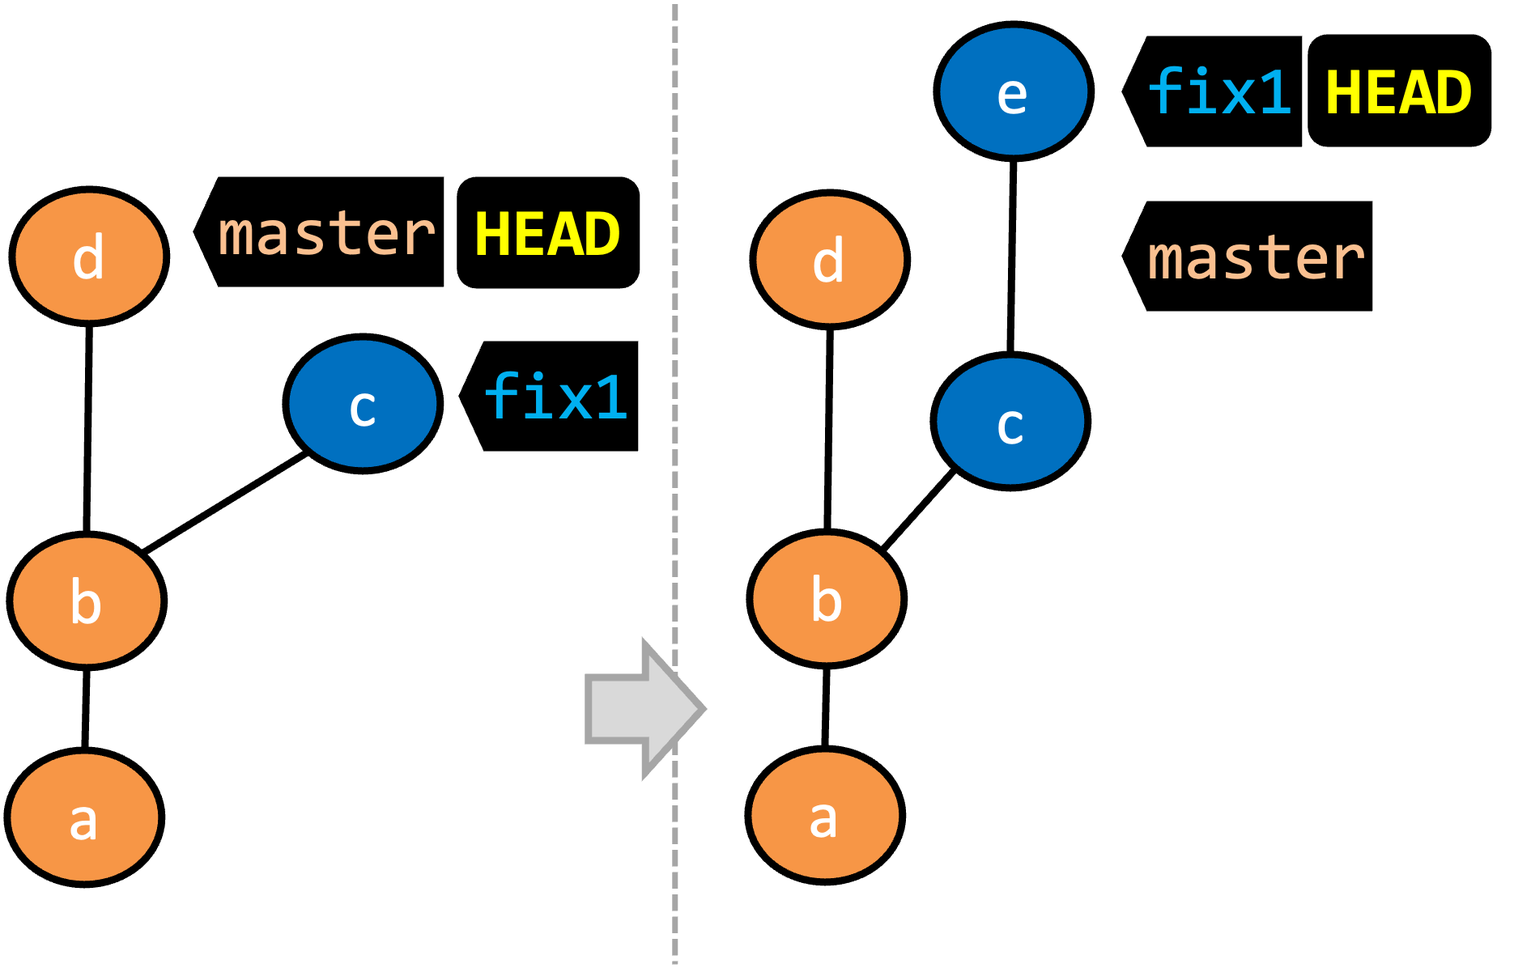
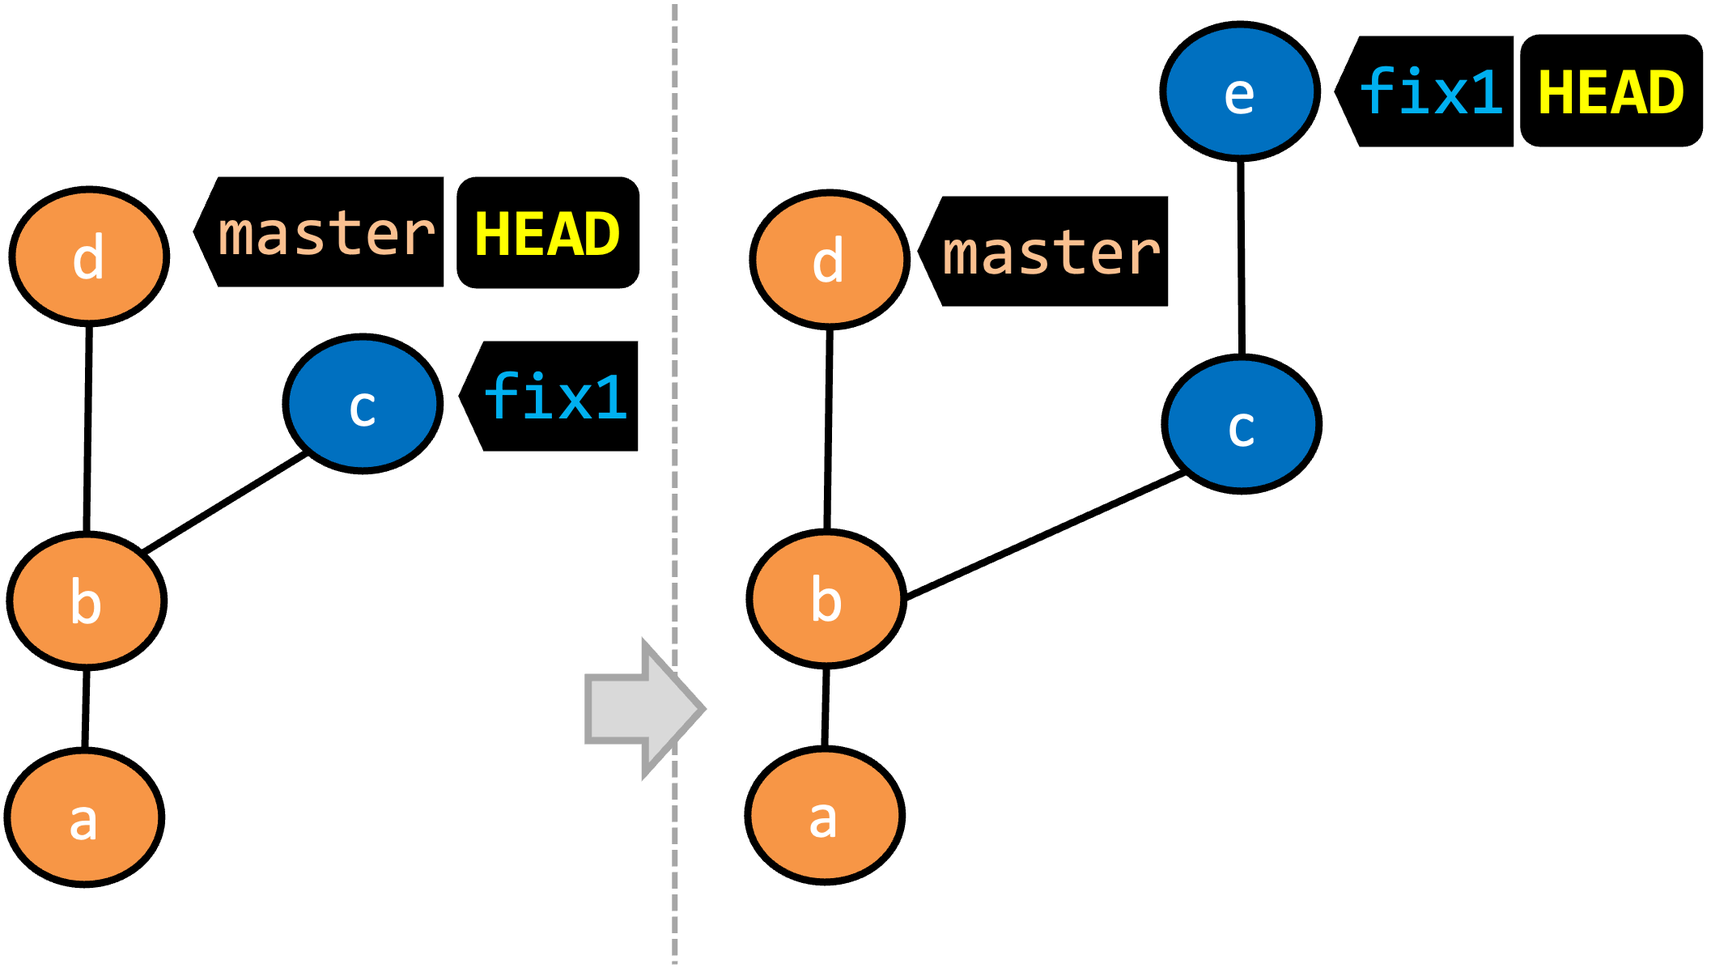
git: Tweak tours 7, 8

diff --git a/gitAndGithub/stage/text.md b/gitAndGithub/stage/text.md
@@ -1,4 +1,4 @@
-{% from "common/macros.njk" import trail, bold_number, callout, hp_number, label, show_git_term, show_git_term_tip, show_detour, show_exercise,show_folder_columns, show_folder_contents, show_git_tabs, show_hands_on_practical, show_lesson_intro, show_output, show_under_the_hood with context %}
+{% from "common/macros.njk" import trail, bold_number, callout, hp_number, label, show_commit, show_folder_columns, show_git_term, show_git_term_tip, show_detour, show_exercise, show_git_tabs, show_git_tabs_from_text, show_hands_on_practical, show_head, show_lesson_intro, show_lesson_link, show_output, show_protip, show_ref, show_resources, show_sidebar, show_tag, show_transformation_columns, show_under_the_hood with context %}
 
 <span id="outcomes">{{ icon_outcome }} Can stage files</span>
 <span id="title">{{ trail.recordingFolderHistory.lessons.stage.title }}</span>
@@ -90,10 +90,48 @@ dragon fruits
 
 {% endcall %} <!-- end: HOP -->
 
-**Staging (and unstaging) is how you tell Git which changes you want to include in the next snapshot, regardless of whether a file is currently tracked.** If a file is untracked, staging it will both begin tracking the file and include it in the next snapshot. If the file is already tracked, staging will simply mark its current changes for inclusion in the next commit. <span class="non-printable">In fact, Git supports fine-grained selective staging i.e., staging only specific changes within a file while leaving other changes to the same file unstaged. This will be covered in a later lesson.</span>
+**Staging applies regardless of whether a file is currently tracked.**
+ * Staging a tracked file will both begin tracking the file and include it in the next snapshot.
+ * **Staging an already tracked file will simply mark its current changes for inclusion in the next commit.**
+
+<div class="non-printable">
+
+**Git also supports fine-grained selective staging** i.e., staging only specific changes within a file while leaving other changes to the same file unstaged. This will be covered in a later lesson.
+</div>
 
 **Git does not track empty folders**. It tracks only folders that contain tracked files.<br>
 <span class="non-printable">You can test this by adding an empty subfolder inside the `things` folder (e.g., `things/more-things`) and checking if it shows up as 'untracked' (it will not). If you add a file to that folder (e.g., `things/more-things/food.txt`) and then staged that file (e.g., `git add more-things/food.txt`), the folder will now be included in the next snapshot.</span>
+
+
+{% call show_protip("Staging multiple files in one go") %}
+Here are several ways of staging multiple files simultaneously.
+
+**Specify multiple files:**
+```bash
+git add f1.txt f2.txt data/lists/f3.txt
+```
+
+**Add using a [glob pattern](https://en.wikipedia.org/wiki/Glob_(programming)):**
+```bash
+git add *.txt  # adds all .txt files in the current directory
+```
+
+**Add all files in the current directory and subdirectories:**
+```bash
+git add .
+```
+
+**Add all changes in a specific directory and subdirectories:**
+```bash
+git add path/to/directory
+```
+
+**Add all changes in the entire repository:**
+```bash
+git add -A
+```
+{% endcall %} <!-- end: show_protip -->
+
 
 </div>
 

diff --git a/gitAndGithub/log/text.md b/gitAndGithub/log/text.md
@@ -22,9 +22,12 @@ It is useful to be able to **visualise the commits timeline, aka the _revision g
 
 **Nodes in the revision graph represent commits.**
 
-* **A commit is one of four main types of Git {{ show_git_term("objects") }}** (_blobs_, _trees_, and _annotated tags_ are the other three, to be covered later).
+* **A commit is one of four main types of Git {{ show_git_term("objects") }}**. For completeness, the other three are:
+  * **blob** (short for **binary large object**): stores the contents of a file
+  * **tree**: represents a directory and records the hierarchy of its contents by referencing blobs and other trees
+  * **tag** (specifically, _annotated_ tag): a label-like object that can store additional metadata and point to a specific commit
 * **A commit is identified by its {{ show_git_term("SHA") }} value**. A SHA (Secure Hash Algorithm) value is a unique identifier generated by Git to represent each commit. It is produced by using SHA-1 (i.e., one of the algorithms in the SHA family of cryptographic hash functions) on the entire content of the commit. It's a 40-character hexadecimal string (e.g., `f761ea63738a67258628e9e54095b88ea67d95e2`) that acts like a fingerprint, ensuring that every commit can be referenced unambiguously.
-* A commit is a full snapshot of the working directory, constructed based on the previous commit, and the  changes staged. **The previous commit a commit is based on is called the {{ show_git_term("parent commit") }}** %%(some commits can have multiple parent commits -- we’ll cover that later)%%.
+* A commit is a full snapshot of the working directory, constructed based on the previous commit, and the  changes staged. That means **each commit (except the initial commit) is based on a another {{ show_git_term("'parent' commit") }}**. Some commits can have multiple parent commits -- we’ll cover that later.
 
 **Edges in the revision graph represent links between a commit and its parent commit(s).** In some revision graph visualisations, you might see arrows (instead of lines) showing how each commit points to its parent commit.
 
@@ -50,7 +53,7 @@ In the revision graph above, there are two refs {{ show_ref('master') }} and &nb
 {{ show_commit('C1', edge='') }}
 <p/>
 
-In the revision graph above you see a third type of ref ({{ show_ref('origin/master') }}). This is a {{ show_git_term("remote-tracking branch") }} ref that represents the state of a corresponding branch in a remote repository (if you previously set up the branch to 'track' a remote branch). In this example, the `master` branch in the remote `origin` is also at the commit `C3` (which means you have not created new commits after you pushed to the remote).
+In the revision graph above, you see a third type of ref ({{ show_ref('origin/master') }}). This is a {{ show_git_term("remote-tracking branch") }} ref that represents the state of a corresponding branch in a remote repository (if you previously set up the branch to 'track' a remote branch). In this example, the `master` branch in the remote `origin` is also at the commit `C3` (which means you have not created new commits after you pushed to the remote).
 
 If you now create a new commit `C4`, the state of the revision graph will be as follows:
 

diff --git a/gitAndGithub/remoteBranchPush/text.md b/gitAndGithub/remoteBranchPush/text.md
@@ -9,7 +9,7 @@
 **Local branches can be replicated in a remote**.
 {% endcall %}
 
-**Pushing a copy of a local branches to the corresponding remote repo makes those branches available remotely.**
+**Pushing a copy of local branches to the corresponding remote repo makes those branches available remotely.**
 
 In a previous lesson, we saw how to push the default branch to a remote repository and have Git set up tracking between the local and remote branches using a remote-tracking reference. **Pushing any other local branch to a remote works the same way as pushing the default branch — you simply specify the target branch instead of the default branch.** Pushing any new commits in any local branch to a corresponding remote branch is done similarly as well.
 
@@ -50,7 +50,7 @@ gitGraph BT:
 
 
 <!-- ================== start: HANDS-ON =========================== -->
-{% call show_hands_on_practical("Push locla branches to remote")  %}
+{% call show_hands_on_practical("Push local branches to remote")  %}
 
 <!-- commands to create samplerepo-company
 
@@ -73,10 +73,10 @@ git commit -am "Add Michael to employees.txt"
 -->
 
 
-{{ hp_number("1") }} **Fork the [samplerepo-company](https://github.com/se-edu/samplerepo-company)** to your GitHub account. When doing so, ==un-tick the `Copy the master branch only` option==.<br>
+{{ hp_number(hop_preparation) }} **Fork the [samplerepo-company](https://github.com/se-edu/samplerepo-company)** to your GitHub account. When doing so, ==un-tick the `Copy the master branch only` option==.<br>
 After forking, go to the fork and ensure both branches (`master`, and `track-sales`) are in there.
 
-{{ hp_number("2") }} **Clone the fork** to your computer. It should look something like this:
+**Clone the fork** to your computer. It should look something like this:
 
 <mermaid>
 gitGraph BT:
@@ -95,7 +95,7 @@ gitGraph BT:
 The `origin/HEAD` remote-tracking ref indicates where the `HEAD` ref is in the remote `origin`.
 </box>
 
-{{ hp_number("3") }} **Create a new branch `hiring`, and add a commit to that branch.** The commit can contain any changes you want.
+{{ hp_number("1") }} **Create a new branch `hiring`, and add a commit to that branch.** The commit can contain any changes you want.
 
 <box type="tip" seamless>
 
@@ -124,7 +124,7 @@ gitGraph BT:
 </mermaid>
  The resulting revision graph should look like the one above.
 
-{{ hp_number("4") }} **Push the `hiring` branch to the remote.**
+{{ hp_number("2") }} **Push the `hiring` branch to the remote.**
 
 {% set cli %} <!-- ------ start: Git Tabs --------------->
 
@@ -141,7 +141,7 @@ git push origin -u hiring
 {{ show_git_tabs_from_text(cli, sourcetree) }}
 <!-- ------ end: Git Tabs -------------------------------->
 
-{{ hp_number("5") }} **Verify the branch has been pushed to the remote** by visiting the fork on GitHub, and looking for the `origin/hiring` remote-tracking ref in the local repo.
+{{ hp_number("3") }} **Verify the branch has been pushed to the remote** by visiting the fork on GitHub, and looking for the `origin/hiring` remote-tracking ref in the local repo.
 {% endcall %}<!-- ===== end: HANDS-ON ============================ -->
 
 </div>

diff --git a/gitAndGithub/remoteBranchDelete/text.md b/gitAndGithub/remoteBranchDelete/text.md
@@ -14,20 +14,20 @@ Often, you'll need to **delete a branch in a remote repo** after it has served i
 <!-- ================== start: HANDS-ON =========================== -->
 {% call show_hands_on_practical("Delete (and restore) branches in a remote")  %}
 
-{{ hp_number("1") }} **Fork the [samplerepo-books](https://github.com/se-edu/samplerepo-books)** to your GitHub account. When doing so, ==un-tick the `Copy the master branch only` option==.<br>
+{{ hp_number(hop_preparation) }} **Fork the [samplerepo-books](https://github.com/se-edu/samplerepo-books)** to your GitHub account. When doing so, ==un-tick the `Copy the master branch only` option==.<br>
 After forking, go to the fork and ensure all three branches are in there.
 
-{{ hp_number("2") }} **Clone the fork** to your computer.
+**Clone the fork** to your computer.
 
-{{ hp_number("3") }} **Create a local copy of the `fantasy` branch** in your clone.
+{{ hp_number("1") }} **Create a local copy of the `fantasy` branch** in your clone.
 
-Follow instructions in {{ show_lesson_link(trail.remoteBranches.lessons.remoteBranchPush) }}.
+Follow instructions in {{ show_lesson_link(trail.remoteBranches.lessons.remoteBranchPull) }}.
 
-{{ hp_number("4") }} **Delete the remote branch `fantasy`.**
+{{ hp_number("2") }} **Delete the remote branch `fantasy`.**
 
 {% set cli %} <!-- ------ start: Git Tabs --------------->
 
-You can use the `git push <remote> --delete <branch>` command to delete a branch in a remote. This is like pushing changes in a branch to a remote, except we request the branch to be deleted instead by adding the `--delete` switch.
+You can use the `git push <remote> --delete <branch>` command to delete a branch in a remote. This is like pushing changes in a branch to a remote, except we request the branch to be deleted instead, by adding the `--delete` switch.
 ```bash{.no-line-numbers}
 git push origin --delete fantasy
 ```
@@ -43,11 +43,11 @@ Locate the remote branch under `REMOTES` → `origin`, right-click on the branch
 {{ show_git_tabs_from_text(cli, sourcetree) }}
 <!-- ------ end: Git Tabs -------------------------------->
 
-{{ hp_number("5") }} **Verify the branch was deleted** from the remote, by going to the fork on GitHub and checking the branches page `https://github.com/{YOUR_USERNAME}/samplerepo-books/branches`<br> e.g., `https://github.com/johndoe/samplerepo-books/branches`.
+{{ hp_number("3") }} **Verify the branch was deleted** from the remote, by going to the fork on GitHub and checking the branches page `https://github.com/{YOUR_USERNAME}/samplerepo-books/branches`<br> e.g., `https://github.com/johndoe/samplerepo-books/branches`.
 
 **Also verify the local copy has not been deleted**.
 
-{{ hp_number("6") }} **Restore the remote branch from the local copy.**
+{{ hp_number("4") }} **Restore the remote branch from the local copy.**
 
 Push the local branch to the remote, while enabling the tracking option (as if pushing the branch to the remote for the first time), as covered in {{ show_lesson_link(trail.remoteBranches.lessons.remoteBranchPush) }}.
 

diff --git a/gitAndGithub/syncByRebase/text.md b/gitAndGithub/syncByRebase/text.md
@@ -9,7 +9,7 @@
 **_Rebasing_ is another way to synchronise** one branch with another.
 {% endcall %}
 
-**{{ show_git_term("Rebasing") }} is another way to synchronise one branch with another, while keeping the history cleaner and more linear.** Instead of creating a merge commit to combine the branches, rebasing moves the entire sequence of commits from your branch and "replays" them on top of another branch. This effectively **relocates the base of your branch to the tip of the other branch** (i.e., 're-base', hence the name), as if you had started your work from there in the first place.
+**{{ show_git_term("Rebasing") }} is another way to synchronise one branch with another, while keeping the history cleaner and more linear.** Instead of creating a merge commit to combine the branches, rebasing moves the entire sequence of commits from your branch and "replays" them on top of another branch. This effectively **relocates the base of your branch to the tip of the other branch** (i.e., it 're-bases', hence the name), as if you had started your work from there in the first place.
 
 Rebasing is especially useful when you want to update your branch with the latest changes from a main branch, but you prefer an uncluttered history with fewer merge commits.
 
@@ -56,9 +56,9 @@ gitGraph
 
 Note how the rebasing changed the base of the `feature` branch from `m1` to `m2`. As a result, changes done in `m2` are now visible to the `feature` branch. But there is no merge commit, and the revision graph is simpler.
 
-Also note how the first commit in the feature branch, previously shown as `f1`, is now shown as `f1a` after the rebase. Although both commits contain the same changes, other details — such as the parent commit — are different, making them two distinct Git objects with different SHA values. Similarly, `f2` and `f2a` are also different. Thus, the history of the entire `feature` branch has changed after the rebase.
+Also note how the first commit in the feature branch, previously shown as `f1`, is now shown as `f1a` after the rebase. Although both commits contain the same changes, other details -- such as the parent commit -- are different, making them two distinct Git objects with different SHA values. Similarly, `f2` and `f2a` are also different. Thus, the history of the entire `feature` branch has changed after the rebase.
 
-**Because rebasing rewrites the commit history of your branch, it's important to use it carefully.** You should avoid rebasing branches that you’ve already shared with others, because rewriting published history can cause confusion and conflicts for anyone else working on the same branch.
+**Because rebasing rewrites the commit history of your branch,** you should avoid rebasing branches that you’ve already published, and potentially used by others -- rewriting published history can cause confusion and conflicts for those using the previous version of the commits.
 
 </div>
 

diff --git a/gitAndGithub/branch/text.md b/gitAndGithub/branch/text.md
@@ -34,13 +34,13 @@ Given below is an illustration of how branch refs move as branches evolve. Refer
 * The repo has switched back to the `master` branch. Hence, the `HEAD` has moved back to `master` branch's <tooltip content="latest commit of that branch">tip</tooltip>.<br>
    At this point, the repo's working directory reflects the code at commit `b` (not `c`).
 
-<annotate src="{{ baseUrl }}/gitAndGithub/branch/images/branchesAsLabels2.png" width="400">
+<annotate src="{{ baseUrl }}/gitAndGithub/branch/images/branchesAsLabels2.png" width="460">
 <a-point x="15%" y="10%" label="[6]" opacity="0"/>
 <a-point x="50%" y="5%" label="[7]" opacity="0"/>
 </annotate>
 
 * A new commit (`d`) has been added. The `master` and the `HEAD` refs have moved to that commit. {texts="['[6]', '[7]']"}
-* The repo has switched back to the `fix1` branch and added a new commit (`e`) to it.
+* The repo has switched back to the `fix1` branch and added a new commit `e` to it. Note how the branch ref `fix1` (together with `HEAD`) has moved to the new commit `e` while the branch ref `master` still points to `d`.
 
 <box type="warning" seamless>
 
@@ -117,7 +117,7 @@ Note how the `feature1` is indicated as the current branch (reason: Sourcetree a
 <!-- ------ end: Git Tabs -------------------------------->
 
 {{ hp_number ('3') }} **Create some commits in the new branch.** %%Just commit as per normal. Commits you add while on a certain branch will become part of that branch.%%<br>
-Note how the `master` ref and the `HEAD` ref moves to the new commit.
+Note how the `master` ref and the `HEAD` ref move to the new commit.
 
 {% set cli %} <!-- ------ start: Git Tabs --------------->
 As before, you can use the `git log --one-line --decorate` command for this.

diff --git a/gitAndGithub/intro/text.md b/gitAndGithub/intro/text.md
@@ -32,7 +32,7 @@ Most of these reasons are equally valid, at least in theory, whether you're work
 </modal>
 
 **A {{ show_git_term('revision') }} is the state of a piece of information at a specific point in time, resulting from changes made to it** e.g., if you modify the code and save the file, you have a new _revision_ (or a new _version_) of that file. %%Some seem to use this term interchangeably with _version_ while others seem to distinguish the two -- here, let us treat them as the same, for simplicity.%%<br>
-{{ show_git_term('Revision Control Software (RCS)') }} **are the software tools that automate the process of Revision Control** i.e., managing revisions of software artifacts. %%RCS are also known as _Version Control Software (VCS)_, and by a few other names.%%
+{{ show_git_term('Revision Control Software (RCS)') }} **are the software tools that automate the process of Revision Control** i.e., managing revisions of software <popover content="any files or outputs related to the development of software, such as source files, build scripts, config files, etc.">artifacts</popover>. %%RCS are also known as _Version Control Software (VCS)_, and by a few other names.%%
 
 **++[:fab-git-alt: Git](https://git-scm.com/)++ is the most widely used RCS today.** Other RCS tools include Mercurial, Subversion (SVN), Perforce, CVS (Concurrent Versions System), Bazaar, TFS (Team Foundation Server), and Clearcase.
 

diff --git a/gitAndGithub/reset/text.md b/gitAndGithub/reset/text.md
@@ -37,7 +37,7 @@ Resetting is different from the _checkout_ feature:
 
 **There are three types of resets: soft, mixed, hard.** All three move the branch pointer to a new commit, but they vary based on what happens to the staging area and the working directory.
 
-* {{ show_git_term("soft reset") }}: Moves the cumulative changes from the discarded commits in to the staging area, waiting to be committed again. Any staged and unstaged changes that existed before the reset will remain untouched.
+* {{ show_git_term("soft reset") }}: Moves the cumulative changes from the discarded commits into the staging area, waiting to be committed again. Any staged and unstaged changes that existed before the reset will remain untouched.
 * {{ show_git_term("mixed reset") }}: Cumulative changes from the discarded commits, and any existing staged changes, are moved into the working directory.
 * {{ show_git_term("hard reset") }}: All staged and unstaged changes are discarded. Both the working directory and the staging area are aligned with the target commit (as if no changes were done after that commit).
 

diff --git a/gitAndGithub/remoteBranchRename/text.md b/gitAndGithub/remoteBranchRename/text.md
@@ -14,11 +14,11 @@ Occasionally, you might need to **rename a branch in a remote repo**.
 <!-- ================== start: HANDS-ON =========================== -->
 {% call show_hands_on_practical("Rename branches in a remote")  %}
 
-This hands-on practical can be done using the fork and the clone of the [samplerepo-books](https://github.com/se-edu/samplerepo-books) that you created in {{ show_lesson_link(trail.remoteBranches.lessons.remoteBranchDelete) }}.
+{{ hp_number(hop_preparation) }} You can use the fork and the clone of the [samplerepo-books](https://github.com/se-edu/samplerepo-books) that you created in {{ show_lesson_link(trail.remoteBranches.lessons.remoteBranchDelete) }}.
 
-**Rename the branch `fantasy`** in the remote (i.e., your fork) to `fantasy-books`.
+{{ hp_number(hop_target) }} **Rename the branch `fantasy`** in the remote (i.e., your fork) to `fantasy-books`.
 
-Here are the steps:
+{{ hp_number("steps") }}
 
 1. Ensure you are in the `master` branch.
 1. Create a local copy of the remote-tracking branch `origin/fantasy`.

diff --git a/gitAndGithub/merge/text.md b/gitAndGithub/merge/text.md
@@ -107,7 +107,7 @@ gitGraph BT:
     commit id: "[HEAD → master] m4"
 </mermaid>
 
-{{ hp_number ('4') }} **Merge `feature1` to the master branch**, giving and end-result like this:
+{{ hp_number ('4') }} **Merge `feature1` to the master branch**, giving an end-result like this:
 
 <mermaid>
 gitGraph BT:
@@ -200,7 +200,7 @@ gitGraph BT:
     commit id: "add-countries] a2"
 </mermaid>
 
-{{ hp_number ('3') }} **Merge the `add-countries` branch onto the `master` branch.** Observe that there is no merge commit. The `master` branch ref (and the `HEAD` ref along with it) moved to the tip of the `add-countries` branch (i.e., `a2`) and both branches now points to `a2`.
+{{ hp_number ('3') }} **Merge the `add-countries` branch onto the `master` branch.** Observe that there is no merge commit. The `master` branch ref (and the `HEAD` ref along with it) moved to the tip of the `add-countries` branch (i.e., `a2`) and both branches now point to `a2`.
 
 <mermaid>
 gitGraph BT:

diff --git a/gitAndGithub/remoteBranchPull/text.md b/gitAndGithub/remoteBranchPull/text.md
@@ -26,7 +26,7 @@ Sometimes we need to create a local copy of a branch from a remote repository, m
 <!-- ================== start: HANDS-ON =========================== -->
 {% call show_hands_on_practical("Work with a branch that existed in the remote")  %}
 
-This hands-on practical **uses the same [samplerepo-company](https://github.com/se-edu/samplerepo-company) repo** you used in {{ show_lesson_link(trail.remoteBranches.lessons.remoteBranchPush) }}. Fork and clone it if you haven't done that already.
+{{ hp_number(hop_preparation) }} **Use the same [samplerepo-company](https://github.com/se-edu/samplerepo-company) repo** you used in {{ show_lesson_link(trail.remoteBranches.lessons.remoteBranchPush) }}. Fork and clone it if you haven't done that already.
 
 {{ hp_number("1") }} **Verify that the remote-tracking branch `origin/track-sales` exists in the local repo, but there is no local copy of it.**
 

diff --git a/gitAndGithub/cherryPick/text.md b/gitAndGithub/cherryPick/text.md
@@ -14,7 +14,7 @@
 
 Unlike merging or rebasing — which bring over all changes since the branches diverged — cherry-picking lets you choose individual commits and apply just those, one at a time, to your current branch. This is useful when you want to bring over a bug fix or a small feature from another branch without merging the entire branch history.
 
-Because cherry-picking copies only the chosen commits, it creates new commits on your branch with the same changes but different SHA values.
+Because cherry-picking copies only the chosen commits, **it creates new commits on your branch with the same changes but different SHA values**.
 
 Suppose we have the following revision graph, and we want to bring over the changes introduced in `m3` (in the `master` branch) onto the `feature` branch.
 <mermaid>
